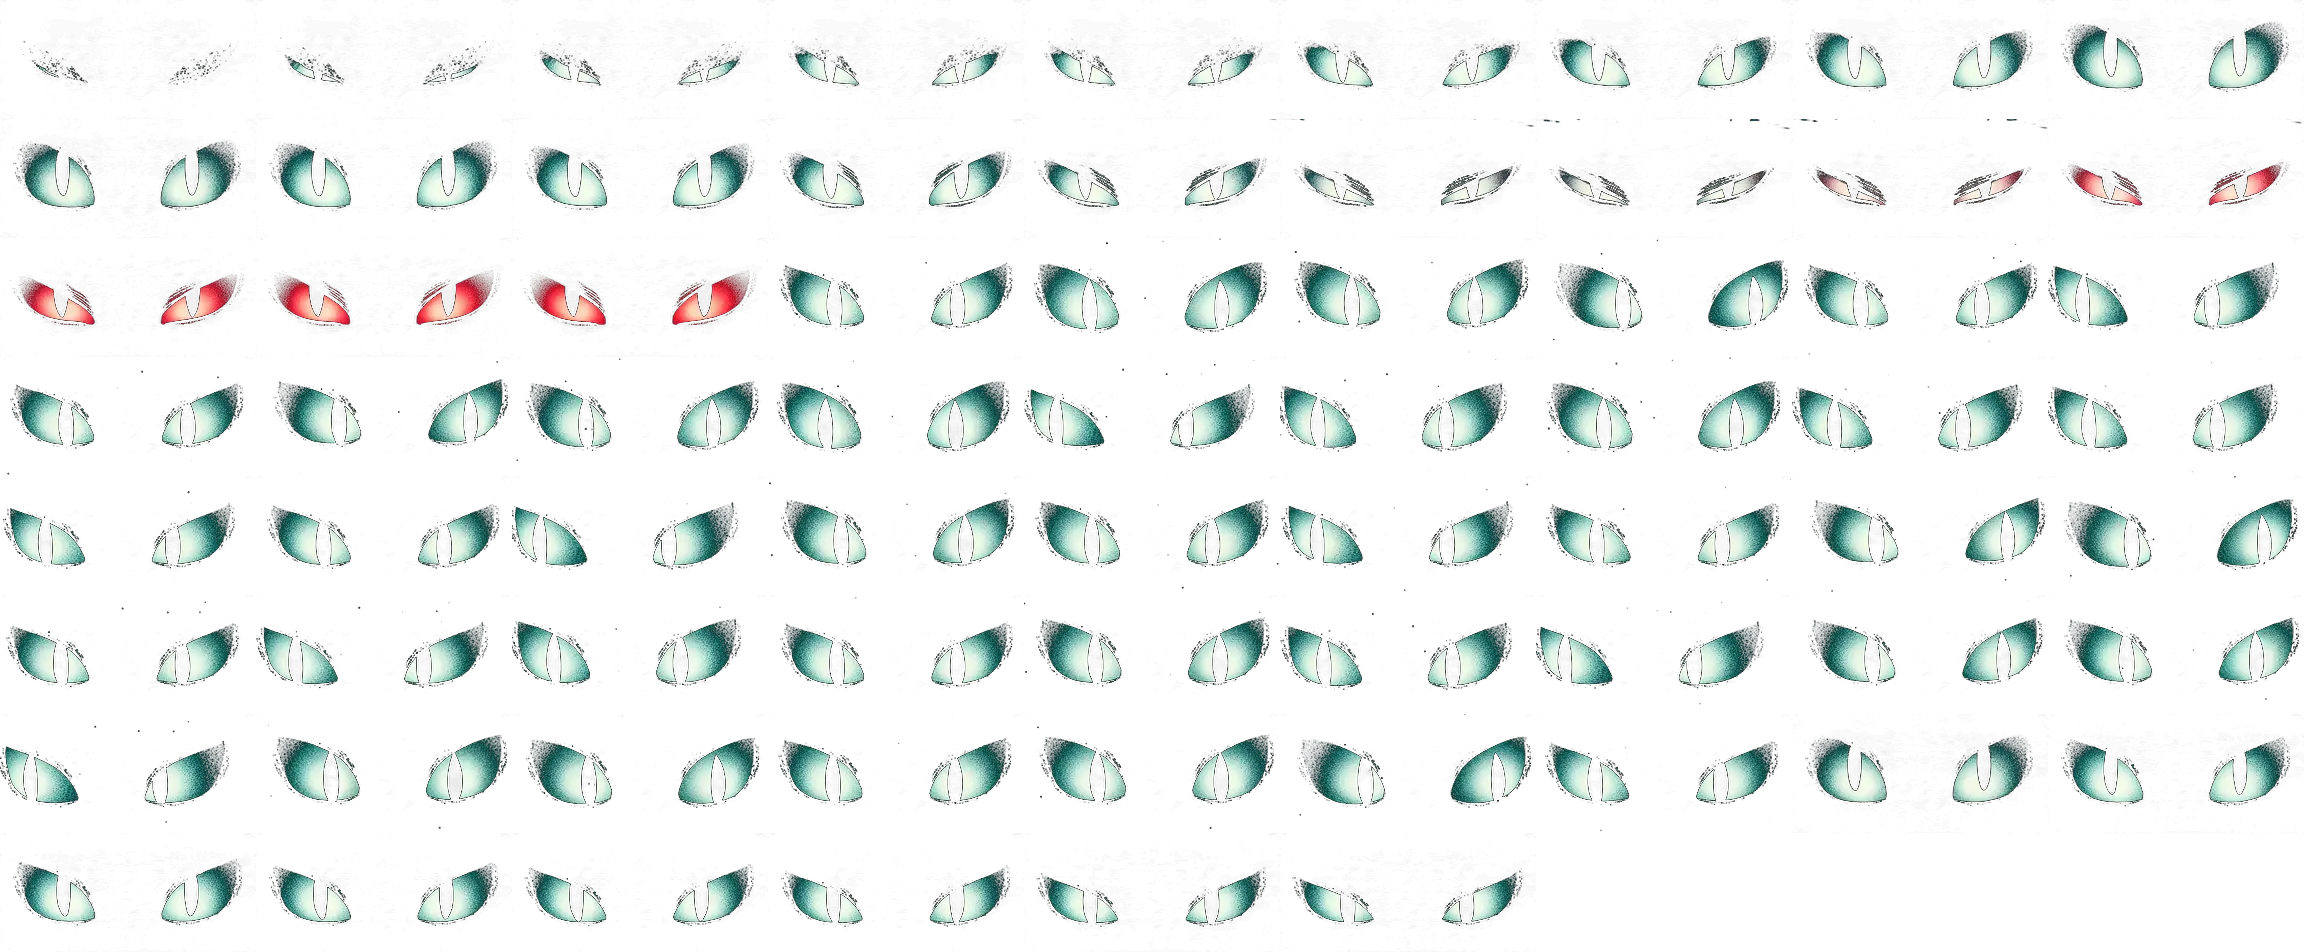
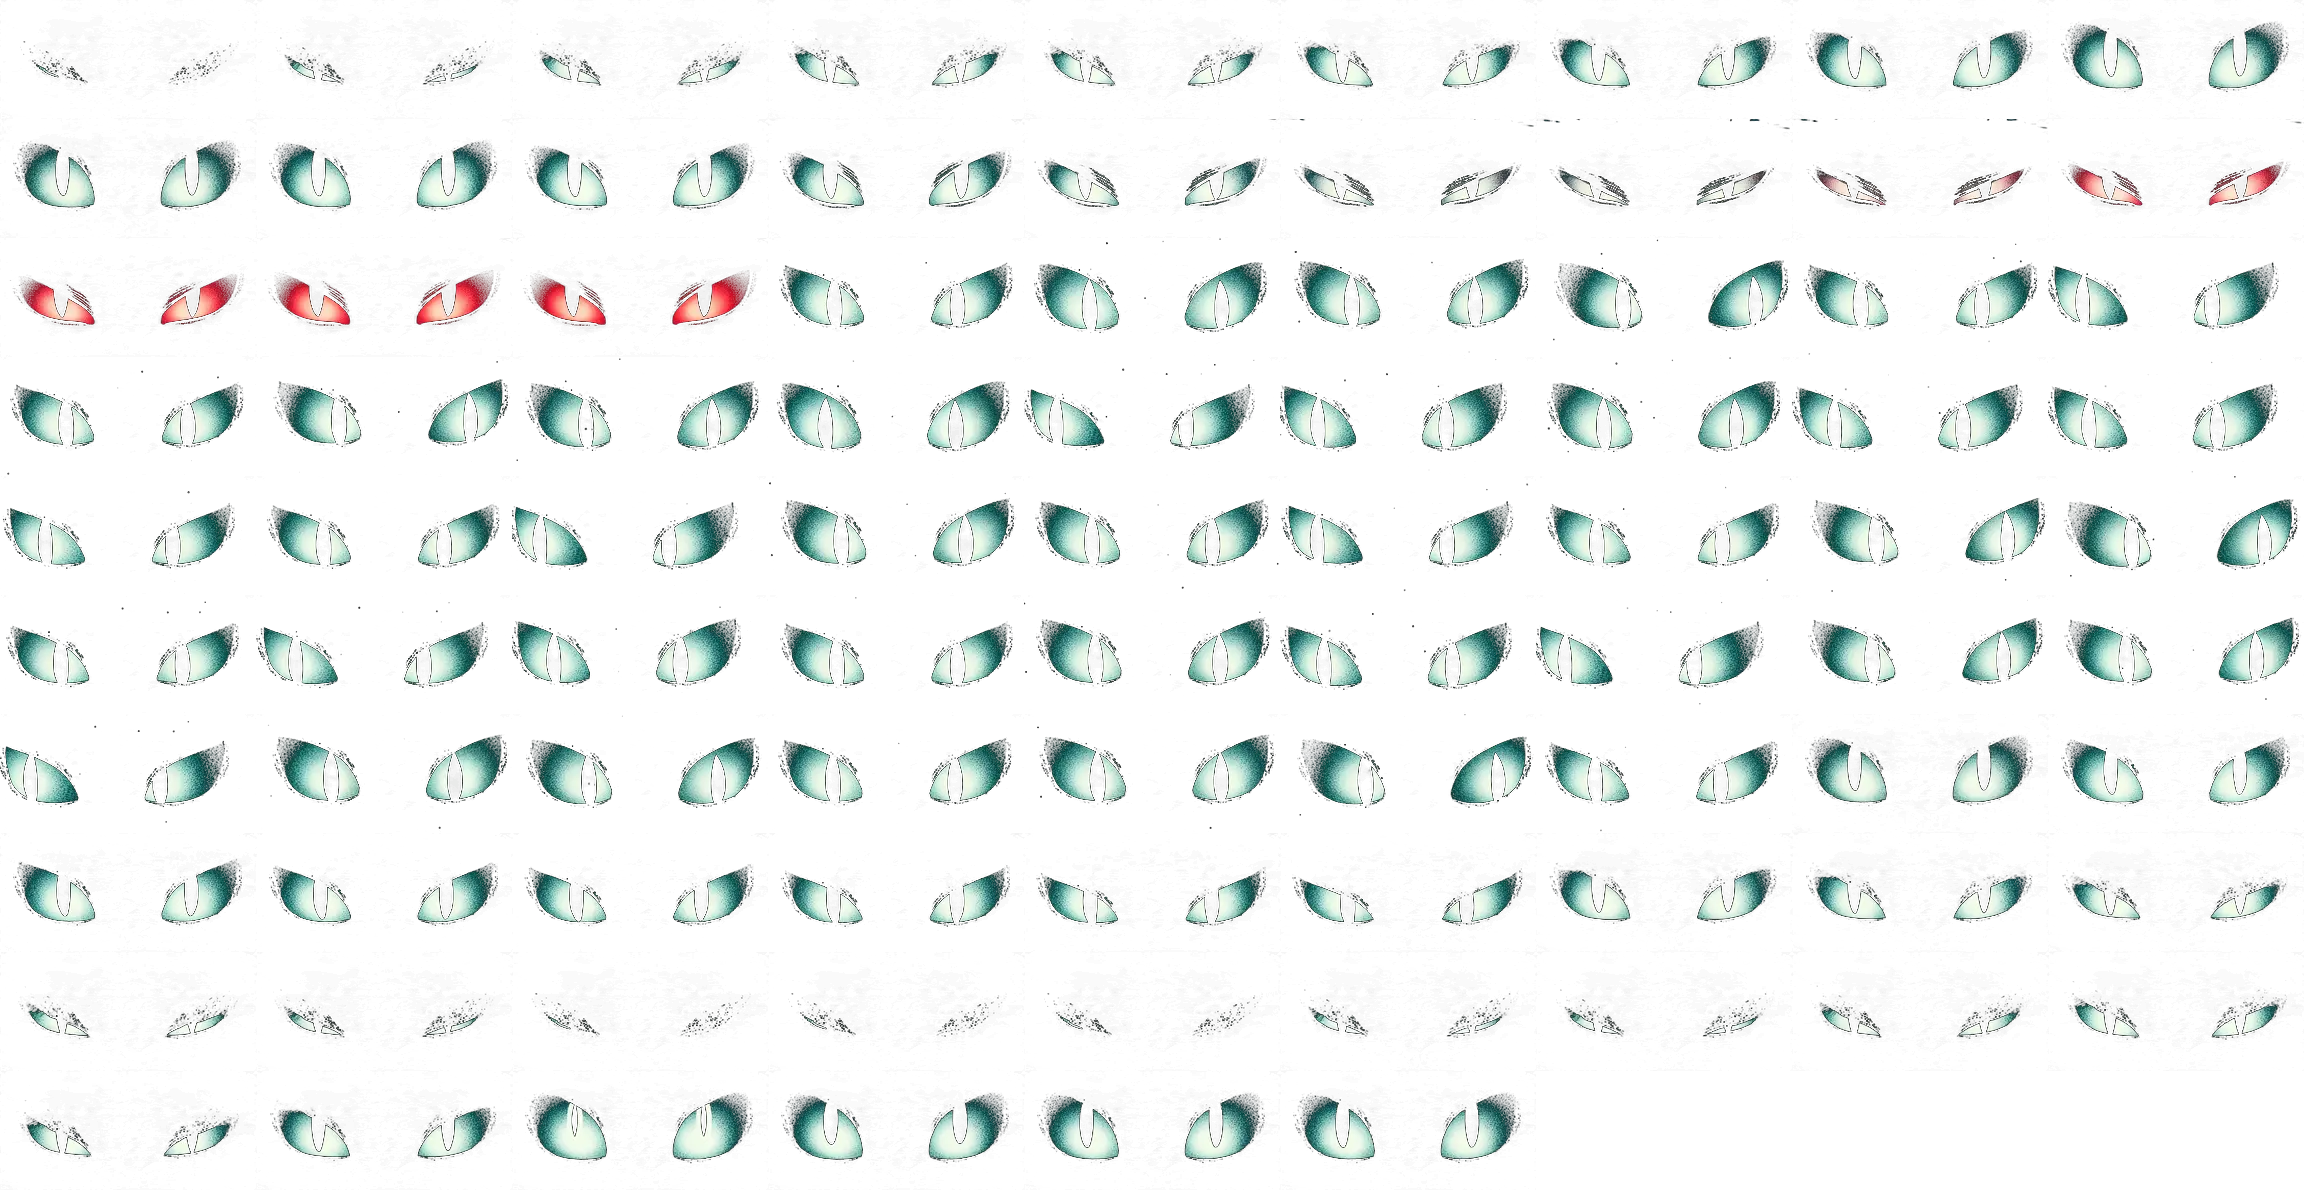
Eyes: occasional glitch twitch (dissolve flicker and pupil flash) from the glitch clip
Claude-Session: https://claude.ai/code/session_01U3oHwuga7h99Y96FKvzDg

diff --git a/web/public/ghost-ambience.js b/web/public/ghost-ambience.js
@@ -168,6 +168,9 @@ class GhostAmbience extends HTMLElement{
         else if(e.state==='closing'||e.state==='stare'){e.open-=dt;if(e.open<=0){e.open=0;e.state='closed';}}
       }
     }
+    if(this.mode==='login'&&!this.okMode&&!this.errMode){this.nextGlitch=(this.nextGlitch==null?rnd(2,4):this.nextGlitch)-dt;
+      if(this.nextGlitch<0){const op=this.eyes.filter(e=>e.state==='open'&&e.open>.98&&!e.gl&&e.ang<.1);if(op.length)op[Math.floor(Math.random()*op.length)].gl={s:Math.random()<.45?'A':'B',t:0};this.nextGlitch=rnd(2.2,5);}}
+    for(const e of this.eyes){if(e.gl){e.gl.t+=dt;if(e.gl.t>(e.gl.s==='A'?.72:.36)||this.errMode||this.okMode)e.gl=null;}}
     for(const e of this.eyes){const tsq=this.errMode||this.mode!=='login'?0:Math.max(Math.min(1,this.len?.25+.15*this.len:0),e.near&&e.state==='open'?Math.min(.9,Math.max(0,((e.dw||0)-1.2)/3)):0);e.sq+=(tsq-e.sq)*Math.min(1,dt*(this.errMode?12:3));}
     for(const e of this.eyes){const want=this.errMode?1:0;e.ang+=(want-e.ang)*Math.min(1,dt*(want?2.2:4));if(Math.abs(want-e.ang)<.01)e.ang=want;}
     for(const e of this.eyes){if(e.open<=0)continue;const ex=e.nx*w,ey=e.ny*h,dx=gx-ex,dy=gy-ey,d=Math.hypot(dx,dy)||1,sp=this.okMode||this.errMode?6:4;
@@ -220,7 +223,9 @@ class GhostAmbience extends HTMLElement{
   drawEyes(e){
     const A=EYE_ATLAS;if(!A.ok)return;
     const c=this.ctx,k=e.s*(this.mob?.82:1),dw=150*k,dh=dw*A.fh/A.fw,x=e.nx*this.w-dw/2,y=e.ny*this.h-dh/2;let i,sy=1;
-    if(e.ang>.5){i=9+Math.round(e.ang*11);sy=Math.max(.05,e.open);}
+    let jx=0;
+    if(e.gl&&e.ang<.2&&e.open>.9){const G=e.gl;if(G.s==='A'){i=69+Math.min(13,Math.floor(G.t*20));}else{i=83+Math.min(3,Math.floor(G.t*12));jx=(Math.random()-.5)*6*k;}if(G.s==='A'&&G.t<.35)jx=(Math.random()-.5)*4*k;}
+    else if(e.ang>.5){i=9+Math.round(e.ang*11);sy=Math.max(.05,e.open);}
     else if(e.sq>.04){i=61+Math.round(e.sq*7);sy=e.open<.98?Math.max(.05,e.open):1;}
     else if(e.open<.98)i=Math.round(Math.max(0,e.open)*8);
     else if(e.ang>.02)i=9+Math.round(e.ang*11);
@@ -228,7 +233,7 @@ class GhostAmbience extends HTMLElement{
       let dc=1e9;for(const g of EYE_GAZE){const d=((g[0]-gx)/EYE_GC[2])**2+((g[1]-gy)/EYE_GC[3])**2;if(d<b){b=d;i=g[2];}if(g[2]===e.gi)dc=d;}
       if(dc<b+.04)i=e.gi;e.gi=i;}
     c.save();c.globalAlpha=Math.min(1,e.open*3)*.95;
-    c.drawImage(A.img,(i%9)*A.fw,Math.floor(i/9)*A.fh,A.fw,A.fh,x+(e.ang>.5?0:e.lx*(e.sq>.04?5:2.5)*k),y+dh*(1-sy)/2+(e.ang>.5?0:e.ly*(e.sq>.04?5:3)*k),dw,dh*sy);
+    c.drawImage(A.img,(i%9)*A.fw,Math.floor(i/9)*A.fh,A.fw,A.fh,x+jx+(e.ang>.5?0:e.lx*(e.sq>.04?5:2.5)*k),y+dh*(1-sy)/2+(e.ang>.5?0:e.ly*(e.sq>.04?5:3)*k),dw,dh*sy);
     c.restore();
   }
   drawStatic(){if(!this.flames)return;const c=this.ctx;c.clearRect(0,0,this.w,this.h);(this.paper||[]).forEach(p=>this.drawPaper(p,0));this.flames.forEach(f=>{f.a=this.okMode?0:1;f.dip=0;f.lean=0;this.drawFlame(f,0);});}
